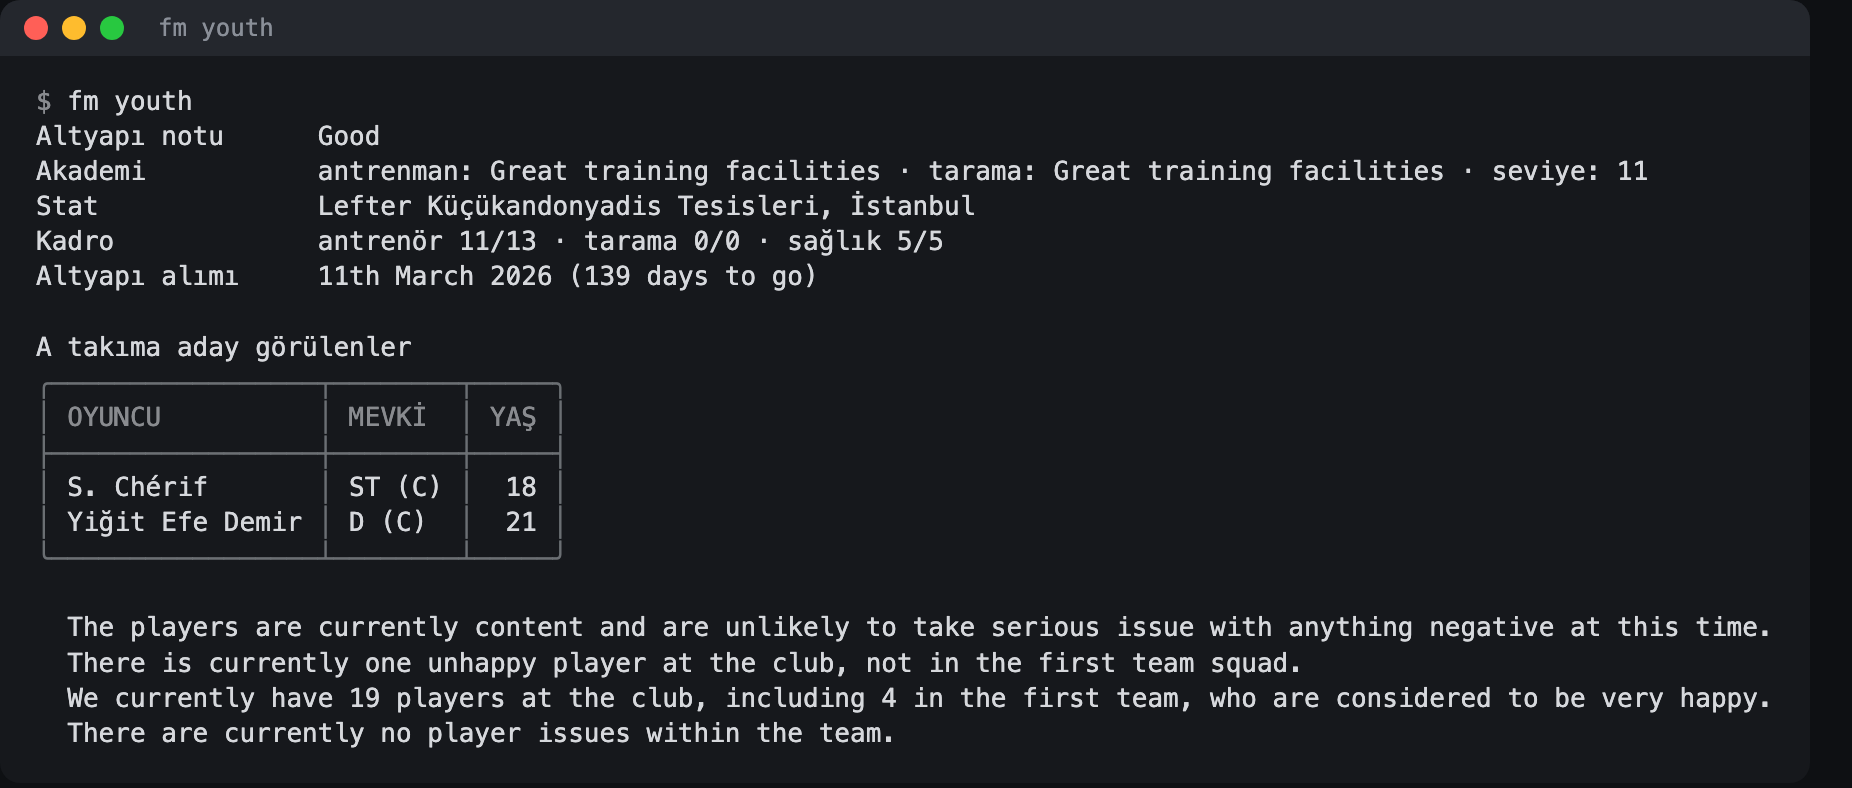
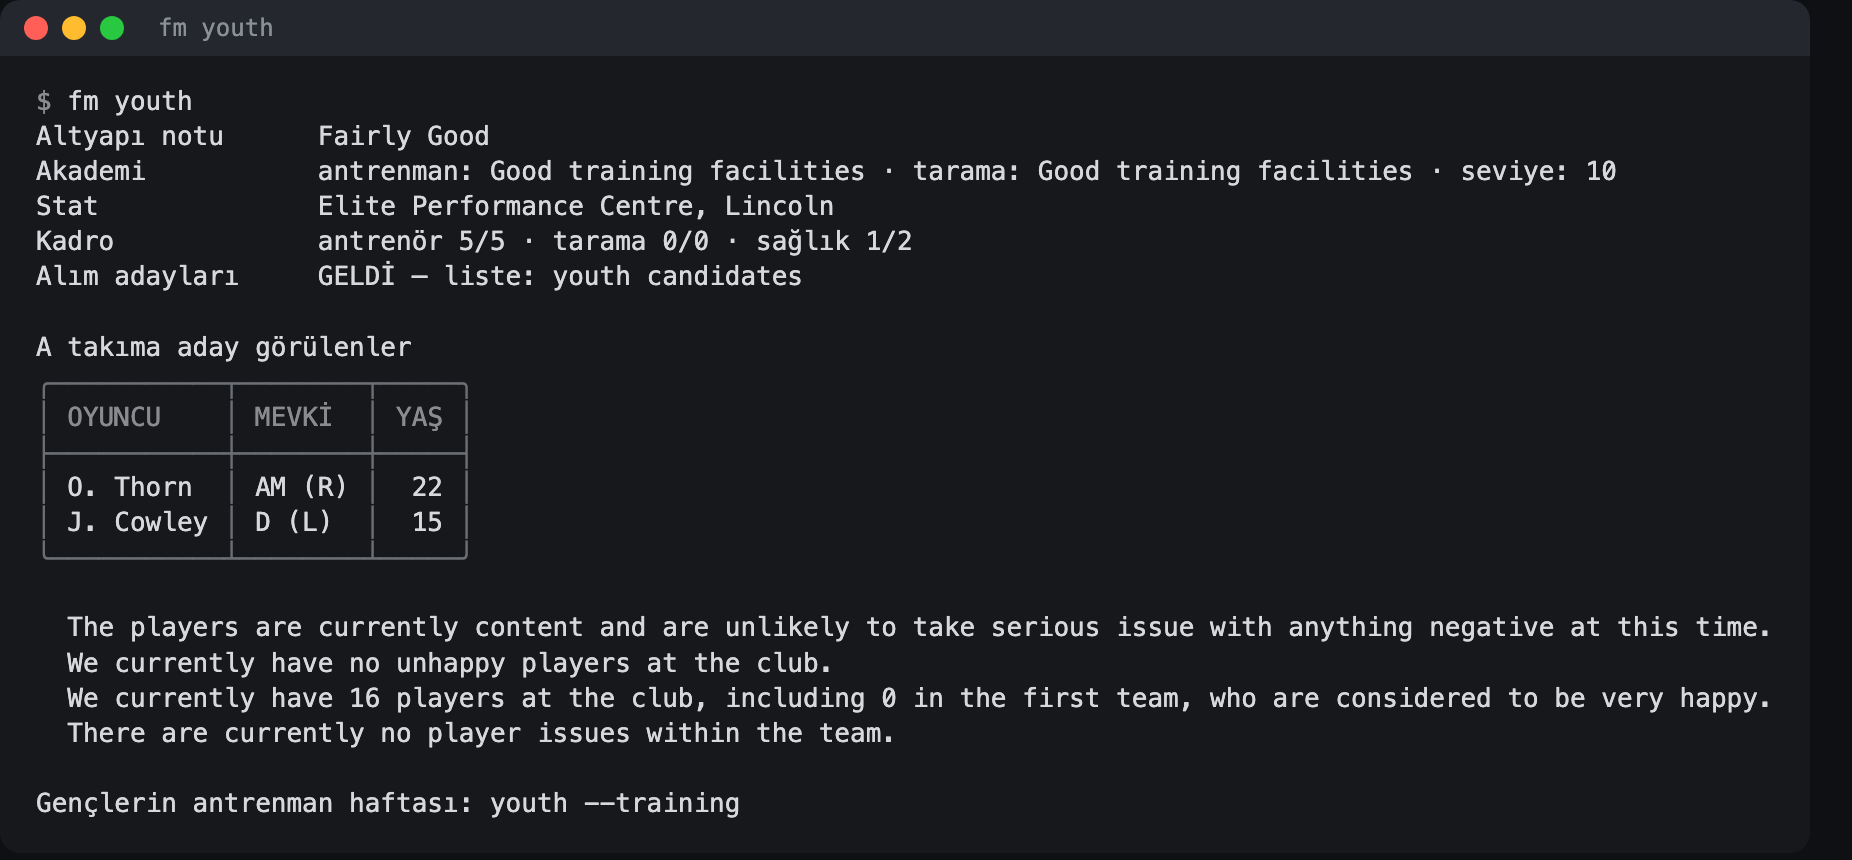
docs: manual, findings and plan cover the intake list; plan notes the window that shows at start

diff --git a/PLAN.md b/PLAN.md
@@ -267,7 +267,7 @@ Geliştirme değil, yön. Sıradaki işler bunlara göre şekillenecek.
 - [x] Kısa liste — `fm shortlist` (§8.56); `shortlist add <ad> --for <süre>` / `remove <ad>` (§8.119)
 - [x] Oyuncu karşılaştırma — `fm compare <a> <b>`: kimlik ve özellikler yan yana, iyisi işaretli
 - [x] Rakip analizi — `fm opponent`: raporun özeti (§8.57), sezon sayıları ve hüküm (§8.114), menajer ve oyun tarzı, beklenti, birim birim analiz ve öne çıkan oyuncular (§8.121)
-- [~] Gençlik adayları / youth intake — `fm youth`: altyapı notu, A takıma aday görülenler, alım tarihi (§8.112); `fm youth --training` U19 antrenman haftası, alım adayları gelene kadar "henüz yok" (§8.125); alım gününde aday listesi bakılacak (Mart)
+- [x] Gençlik adayları / youth intake — `fm youth`: altyapı notu, A takıma aday görülenler, alım tarihi (§8.112); `fm youth --training` U19 antrenman haftası, alım adayları gelene kadar "henüz yok" (§8.125); `fm youth candidates` alım listesi: grup, yaş, mevki, rol, yetenek ve potansiyel aralığı (§8.152); adaya sözleşme önermek oyundan
 
 ---
 
@@ -442,6 +442,7 @@ Geliştirme değil, yön. Sıradaki işler bunlara göre şekillenecek.
 - [x] Geri alınamayan işlerde onay — terminalde sorar, script'te `--yes` ister: `save`, `offer`, `contract`
 - [x] Geri alma yok — yıkıcı aksiyonlarda uyarı: teklif, sözleşme imzası, serbest bırakma / fesih, kayıt, taktik silme, dil değişimi, alışkanlık antrenmanı ve konuşmadaki fesih seçenekleri terminalde soruyor, script'te `--yes` istiyor (10 Ekim taraması)
 - [x] Oyun kapalıysa otomatik başlat (`fm start`)
+- [ ] `fm start` açılışta pencereyi gizlemiyor — pencere tam ekran boyutunda öne geliyor ve kullanıcı başka pencereye geçene kadar ekranda kalıyor (Faruk, 13 Ekim: "dikkatim dağılıyor"). Ölçüm: pencere 5. saniyede çıkıyor, `Minimise()` ancak ana menü gelince (~60. sn) çalışıyor; `-screen-width 640 -screen-height 360` dikkate alınmıyor (ekran 2940×1840). Denenen ve işe yaramayan: açılış boyunca 0,2 sn'de bir `AXMinimized` yazan betik — pencere menü gelene kadar küçülmedi (geri alındı). Bakılacaklar: Unity `PlayerPrefs`'te çözünürlük/pencere konumu, eklentiden açılışta pencereyi küçültmek/taşımak, `open -g -j` ile başlatmak, ayrı bir Space
 
 ---
 

diff --git a/docs/FINDINGS.md b/docs/FINDINGS.md
@@ -4333,6 +4333,19 @@ gidiyor (3. dakikada 80 yol, 20. dakikada hiç) ve son düdük görüldüğünde
 gitmiş oluyor: maç boyunca aralıklarla okunup son dolu okuma saklanıyor. Fikstürün `HomeEventInfos` / `AwayEventInfos`
 listesinde yalnızca goller var (kartlar, sakatlıklar yok).
 
+## 8.152 Altyapı alımının aday listesi (3 Nisan 2026, Lincoln)
+
+Youth Setup'ın sekme listesinde "Youth Candidates" alım gelmeden de var; sayfayı bulmak için her zaman duran "Youth
+Environment" aranıyor. Sayfa (`YouthReportSiteYouthCandidatesTool` › `CandidatesTable`) beş grubu alt alta diziyor:
+`EliteProspectsBinder`, `TopProspectsBinder`… Başlıklar sayıyla yazılıyor ("Elite Prospects (3)", boş grup "Poor
+Prospects (0)" ve tablosuz), `/texts` de tam eşleşme istiyor; sayılar üstteki lejanttan okunuyor (`/texts?anchor=Elite
+&up=3` → "3","Elite","6","Top"…), sonra `/form?anchor=Elite Prospects (3)&up=7` beş grubun hepsini veriyor. Satır:
+ad, ülke, mevki, rol ve iki `FMStarRatingTemp` (yetenek, potansiyel). Yıldızın `m_minValue`'su yarım yıldız sayısı
+(4 = ★★; `m_unmappedMinValue` = +10). Potansiyel bir aralık: altın yıldızlar `m_minValue`'ya, gümüşler `m_maxValue`'ya
+kadar (Cowley 7 ve 9 → ★★★½ – ★★★★½); `/form` artık `ShownMax` da veriyor. Yetenekte ikisi eşit. Yaş sayfada yazmıyor;
+`/people` tablonun kişilerini `Age` ile veriyor (takım "Lincoln YC"). "Sel." başlığı başka bir tabloda da geçtiği için
+çapa olmuyor. Sözleşme önerme (Actions menüsü) yapılmadı.
+
 ## 9. Sıradaki adımlar
 
 Yapılacaklar listesi artık burada tutulmuyor: sıralı iş listesi ve günlük `PLAN.md`'de

diff --git a/docs/manual/KILAVUZ.md b/docs/manual/KILAVUZ.md
@@ -1867,6 +1867,27 @@ Engin Can Biterge     18   GK               GK Tactical         8.80
 Sidiki Chérif         18   AM (RL), ST (C)  Final Third         8.50
 ```
 
+`fm youth candidates` (ya da `fm youth adaylar`) o yılın altyapı alımını listeler; adaylar Mart'ta geldikten
+sonra çalışır. Oyun adayları beş gruba ayırır (Elite, Top, Good, Decent, Poor); her satırda yaş, mevki, rol,
+ülke, şimdiki yetenek ve potansiyel var. Potansiyel bir aralıktır: oyun henüz emin değildir, "en az – en çok" yazar.
+
+![fm youth candidates](img/youth-candidates.png)
+
+```
+$ fm youth candidates
+Altyapı alımı: 16 aday (oyunun gözünde en umut verici önce)
+
+GRUP    OYUNCU           YAŞ  MEVKİ            ROL                     ÜLKE        YETENEK  POTANSİYEL
+Elite   James Cowley     15   D (L)            Inside Wing-Back        England     ★★       ★★★½ – ★★★★½
+Elite   Lucas Bertrand   16   M (C), AM (RC)   Attacking midfielder    England     ★★       ★★★★ – ★★★★★
+Top     Cody Tomlinson   16   GK               No-nonsense goalkeeper  England     ★        ★★½ – ★★★½
+Top     Salifu Sanneh    15   DM, M (C)        Central midfielder      The Gambia  ★        ★★★½ – ★★★★½
+Decent  Chris Price      16   AM (C)           Advanced playmaker      England     ½        ★ – ★★
+```
+
+Adaylar gelmeden önce `fm youth` "henüz yok" der; gelince "GELDİ — liste: youth candidates" yazar. Adaya sözleşme
+önermek şimdilik oyunun içinden (Youth Candidates › Actions).
+
 ### Tesisler — `facilities`
 
 ![fm facilities](img/facilities.png)
